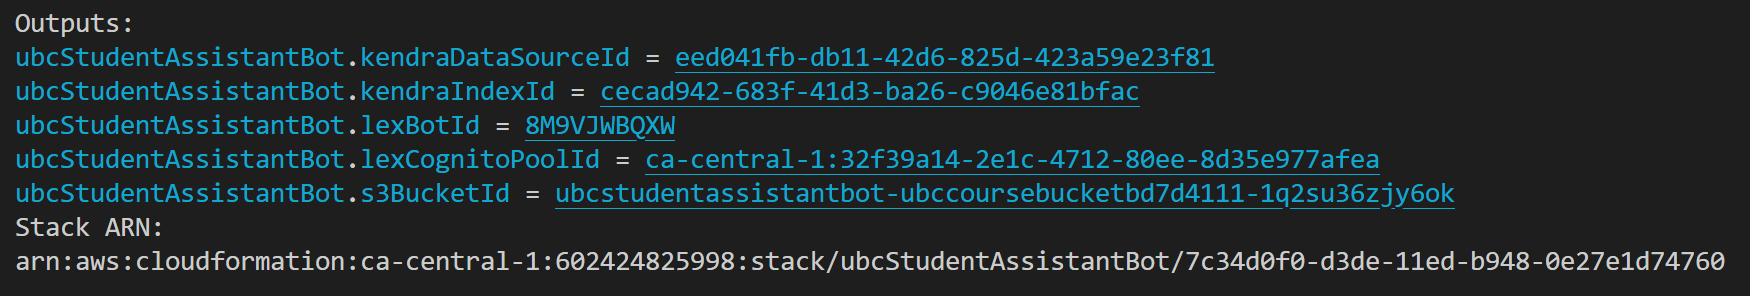
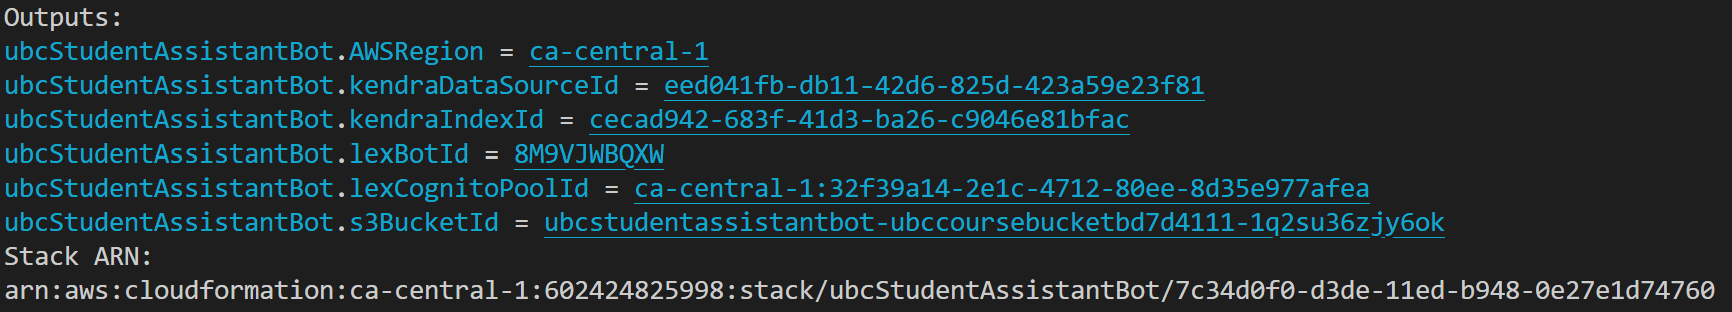
Add aws region to outputs

Changed region(s): [[0.0, 0.0304, 0.9977, 0.973]]

diff --git a/cdk/lib/cdk-stack.ts b/cdk/lib/cdk-stack.ts
@@ -18,6 +18,11 @@ export class ubcStudentAssistantBot extends cdk.Stack {
   constructor(scope: Construct, id: string, props?: cdk.StackProps) {
     super(scope, id, props);
 
+    //Add region output
+    if (props?.env?.region) {
+      new cdk.CfnOutput(this, "AWSRegion", { value: props?.env?.region });
+    }
+
     //Create lex custom role
     const lexCustomResourceRole = new iam.Role(this, 'lexCustomResourceRole', {
       assumedBy: new iam.ServicePrincipal('lambda.amazonaws.com'),
